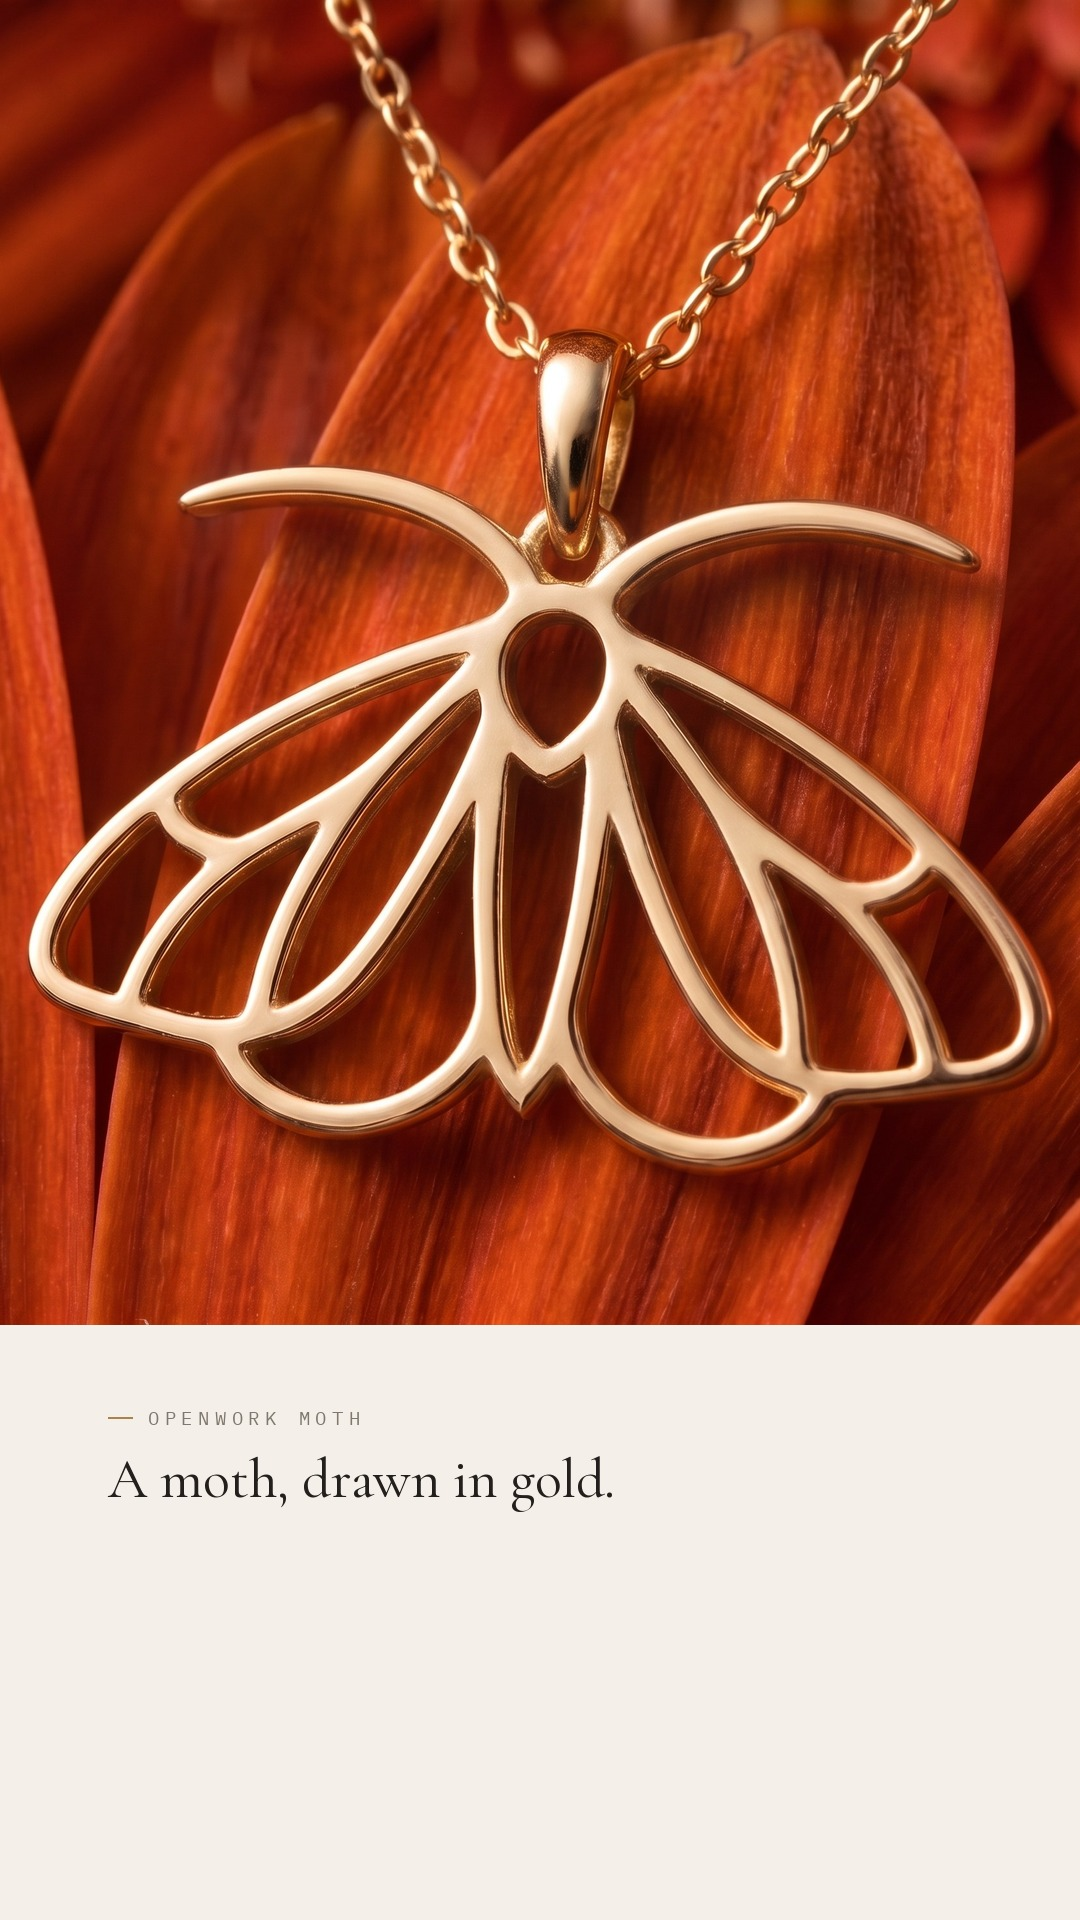
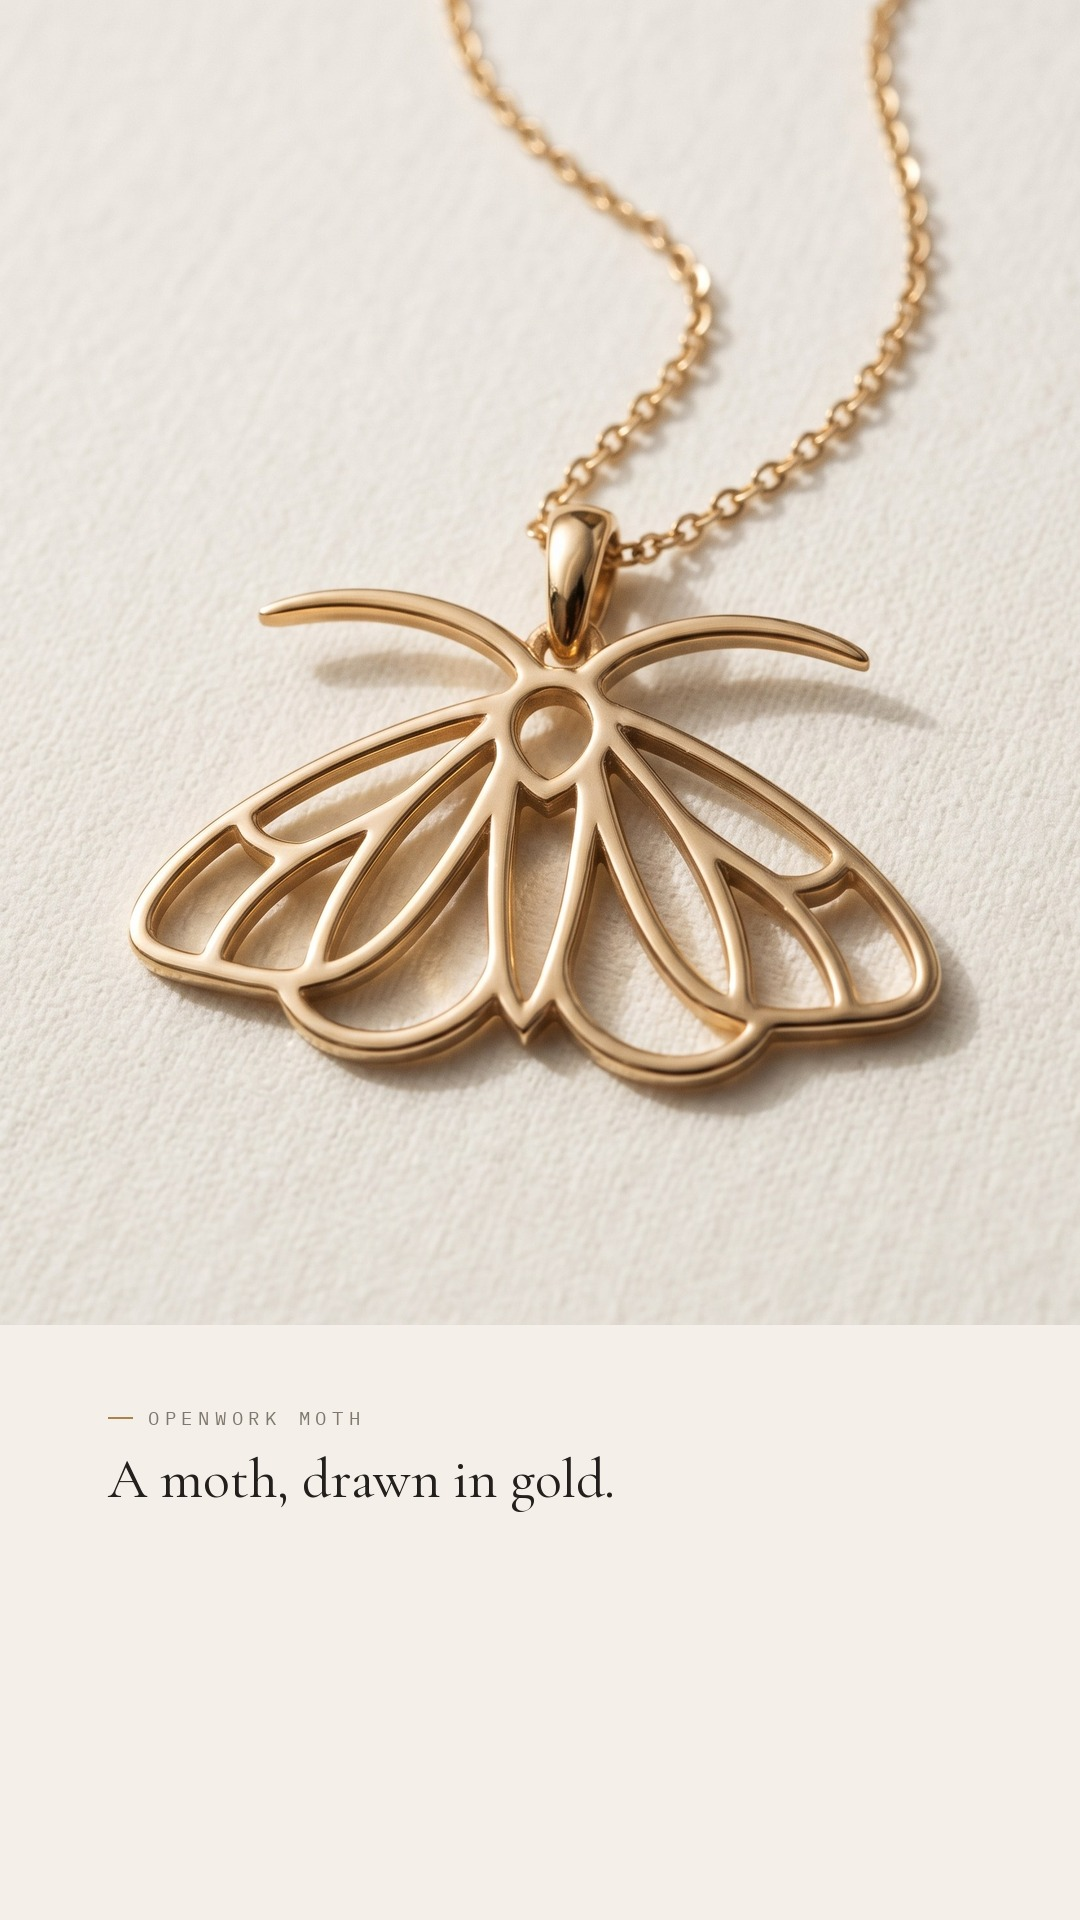
docs(instagram): ivory-ground moth and twig stills; P1 cover and P3 use them
Claude-Session: https://claude.ai/code/session_0155ChXCESvn4jMw6J2DsxxU

diff --git a/docs/artifact-studio/instagram/posts.py b/docs/artifact-studio/instagram/posts.py
@@ -23,7 +23,7 @@ POSTS = [
         "format": "reel",
         "title": "Openwork Moth, reveal",
         "why": "Erişim. Yeni hesapta keşfi Reels getirir; ilk saniyede ürün tam kadrajda.",
-        "cover": {"src": "moth/N01/07", "fy": 0.5,
+        "cover": {"src": "moth/N01/ig-01", "fy": 0.62,
                   "kicker": "OPENWORK MOTH", "headline": "A moth, drawn in gold."},
         "video": "AD1",
         "listing": "4594329265",
@@ -83,7 +83,7 @@ POSTS = [
         "format": "post",
         "title": "Twig and Baroque Pearl",
         "why": "Tek, sessiz ürün karesi. Grid'e nefes ve sezon (kış) rengi verir.",
-        "slides": [{"t": "photo", "src": "twig/B01/06", "fy": 0.5}],
+        "slides": [{"t": "photo", "src": "twig/B01/ig-01", "fy": 0.5}],
         "listing": "4594365591",
         "caption": [
             "A twig caught in frost, and one pearl that refused to be round.",

diff --git a/docs/artifact-studio/instagram/README.md b/docs/artifact-studio/instagram/README.md
@@ -32,6 +32,14 @@ Uygulanan kurallar (`render.py`):
 - Karat rehberinin kapak ve renk kareleri `him26` düz bantla kuruldu: yalın, taş zemin,
   mine yok; moth'un turuncu dünyası bu kare için fazla yüksek sesliydi.
 
+Fildişi zeminli iki yeni kare (sahip onayı 2026-10-14, nano_banana_2 2k, count 1, 2 x 2 kredi):
+`public/artifact/moth/N01/ig-01.jpg` ve `public/artifact/twig/B01/ig-01.jpg`. Yalnız Instagram
+için; Etsy galerisine girmez. Referans ürünün sıkı kırpımıydı (`video/ref-*.jpg`), sahne
+prompt'ta reddedildi. QA: moth'ta tek parça antenler, damla baş halkası, bail ve açık kanat
+hücreleri; twig'de dalgalı dal, biri yukarı biri aşağı iki sürgün, ortanın sağında barok inci,
+iki uçta zincir; ikisi de referansla birebir. P1 kapağı ve P3 artık bu kareleri kullanır;
+P2/05 (takılı moth) turuncu dünyada kalır, çünkü onu değiştirmek modeli yeniden kurmak demek.
+
 ## Araştırmadan çıkan 5 kural
 
 | Bulgu | Kaynak | Bu sette nasıl uygulandı |
